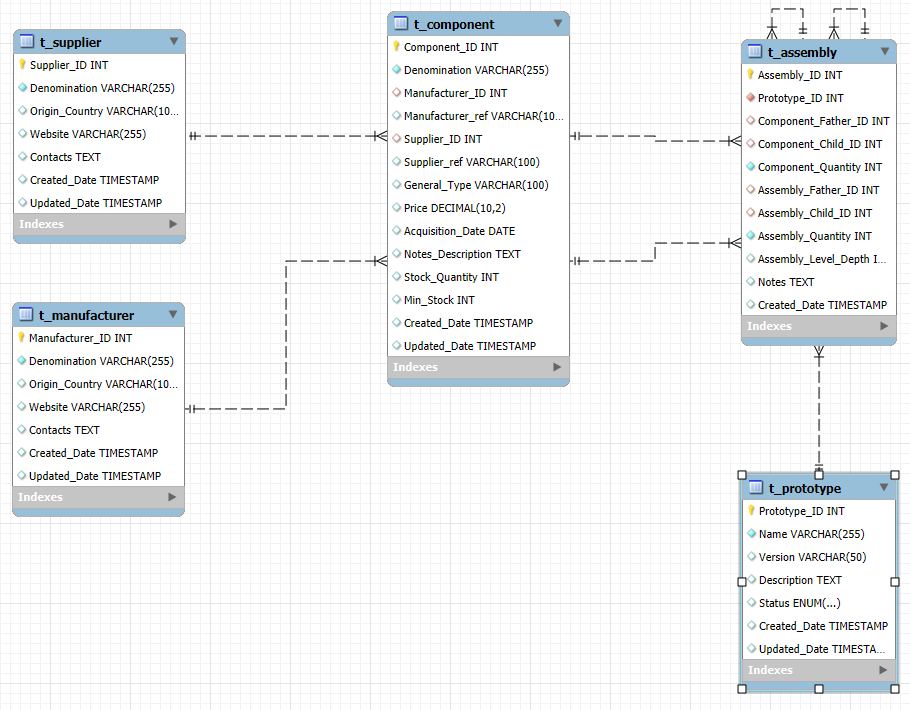
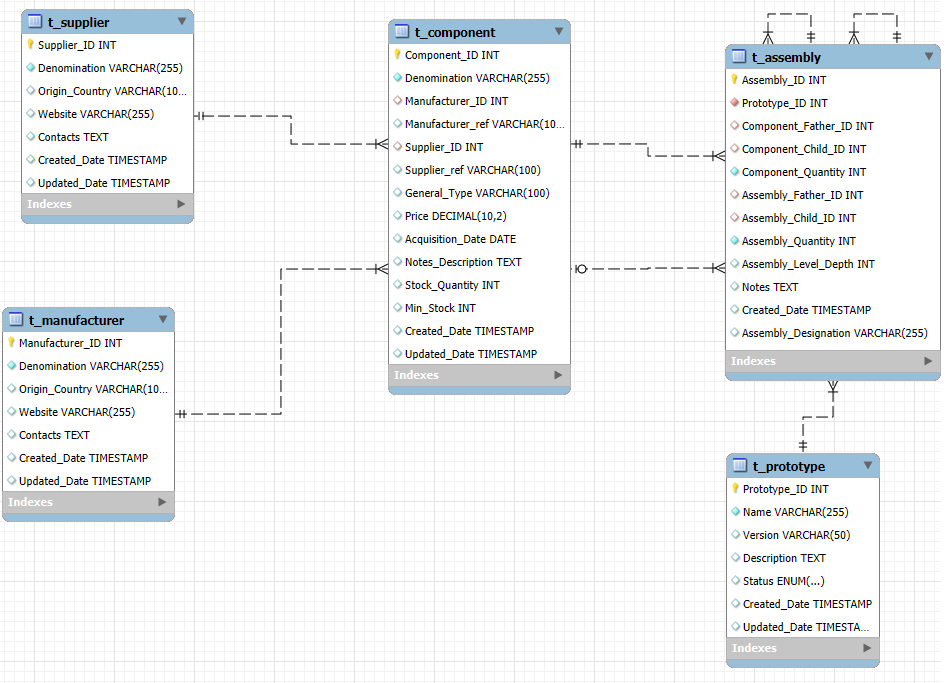
Update README

diff --git a/README.md b/README.md
@@ -9,6 +9,11 @@
 - Fazer constraints no SQL para alterar entre assemblies atómicas, compostas, ou mixed
 - Alterar atributos novos em todas as queries no php
 - Cada assembly devia ter um nome (ou ID) específico em vez de ficar com o nome do protótipo
+- Falta alterar os IDs que aparecem nos separadores Montagem-Pai e Montagem-Filho, para aparecer a designação da montagem em vez do ID
+- Level-Depth não está a funcionar -> clarificar o que significa
+- Clarificar o que significa Nível Raíz
+- Tirar a dúvida se se precisa de duas assemblies para fazer uma nova
+
 ---
 
 **DONE**
@@ -19,3 +24,4 @@
     - Father_ID -> Component_Father_ID | Assembly_Father_ID
     - Quantity -> Component_Quantity | Assembly_Quantity
     - Level_Depth -> Assembly_Level_Depth
+- Alterei a interface para ao selecionar uma Montagem, aparecer *"Protótipo Versão - Designação da Montagem"*
